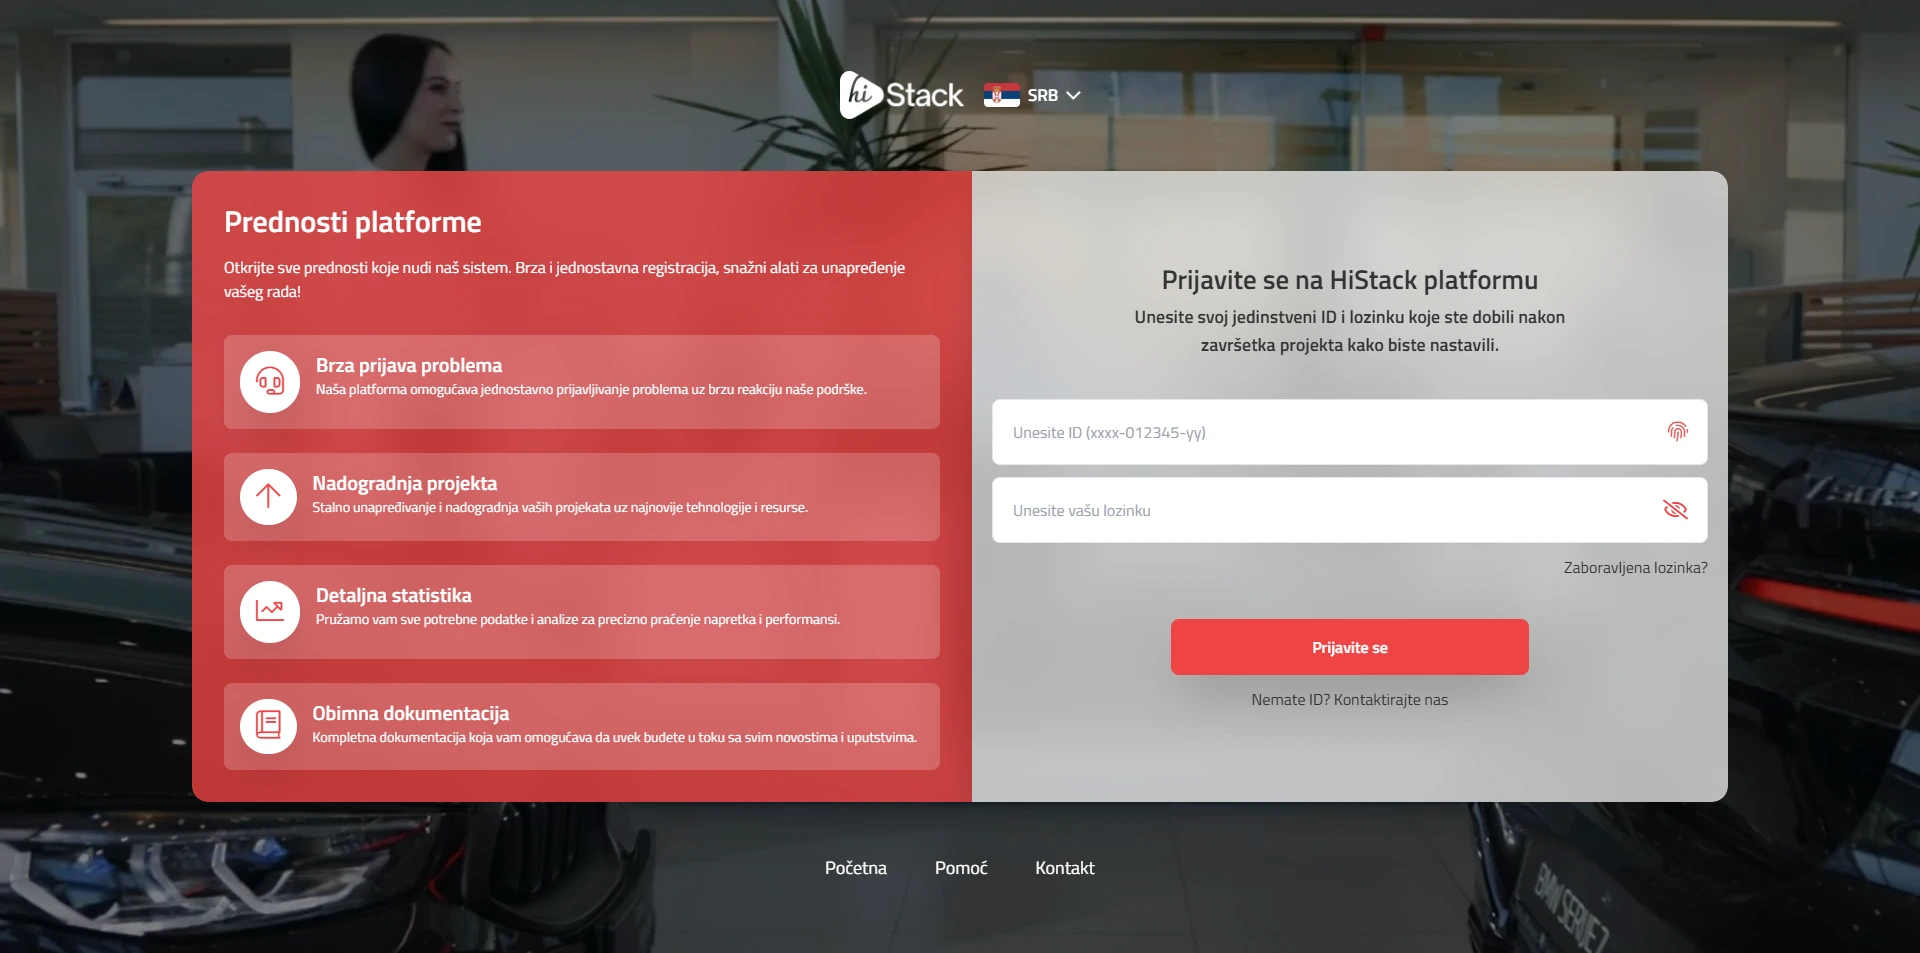
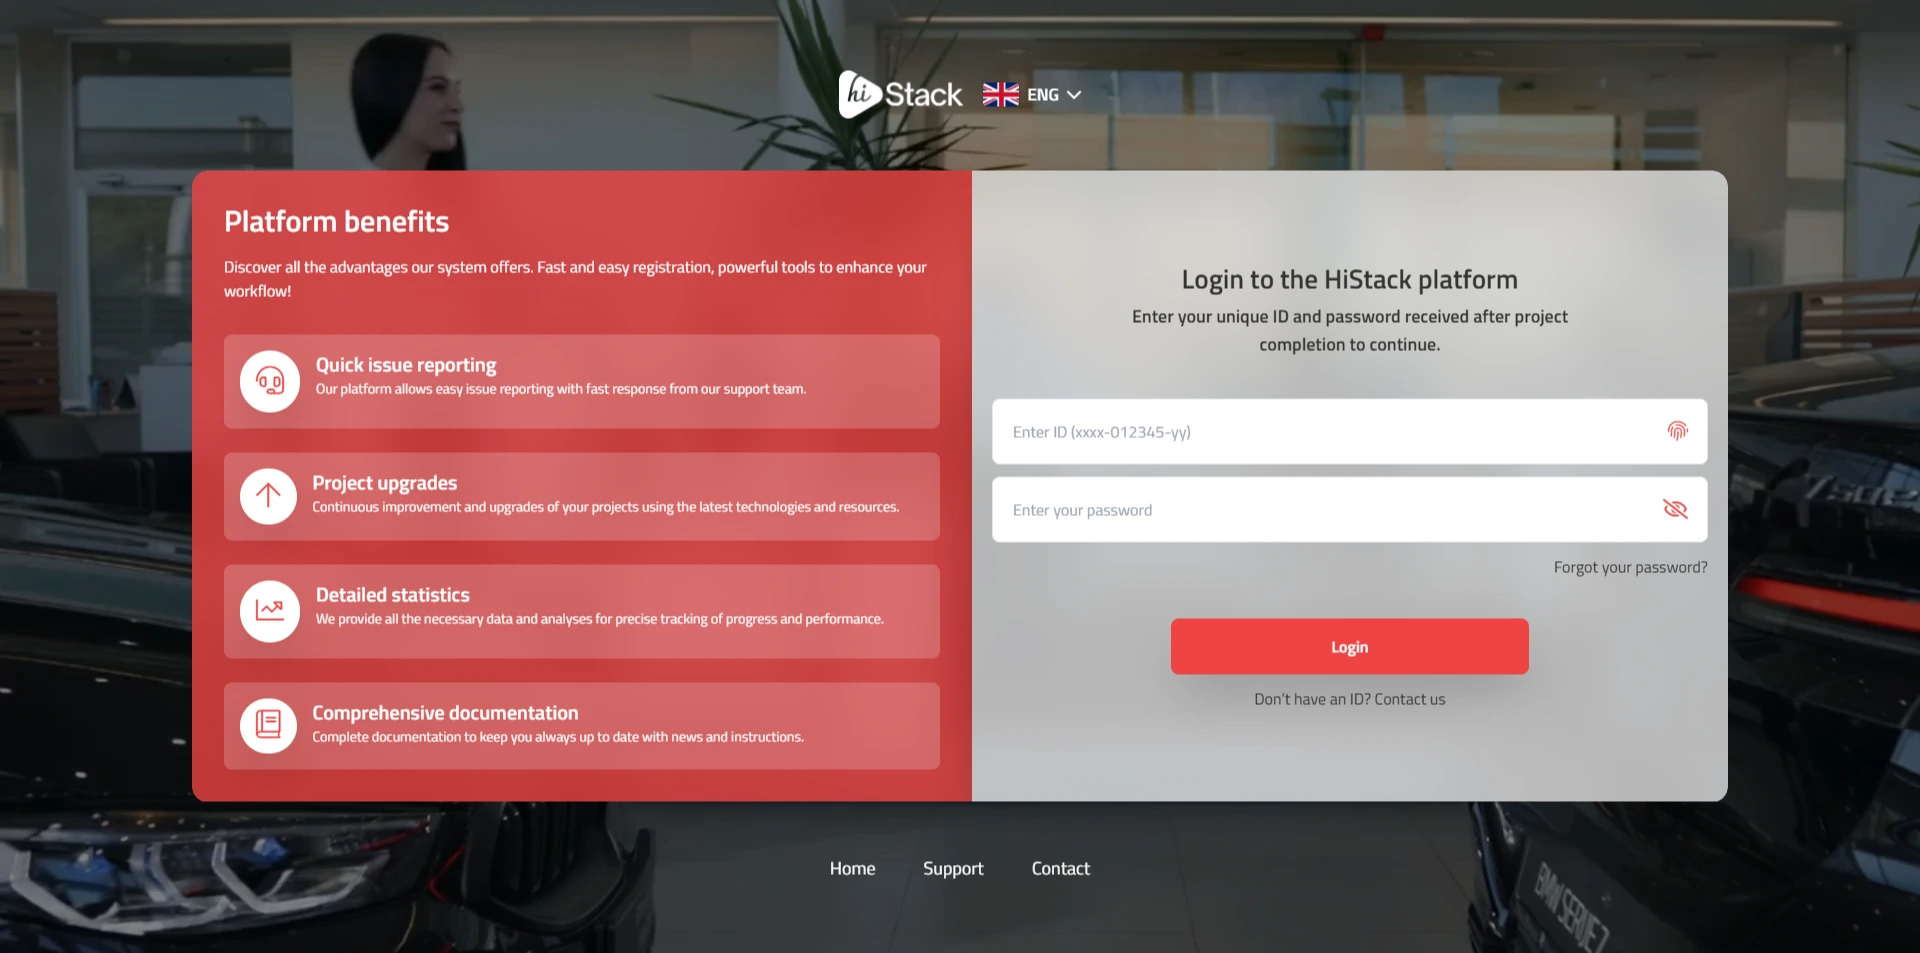
preveden login page, resset pass page i sve slike

diff --git a/en/my-id.html b/en/my-id.html
@@ -132,10 +132,10 @@ PHP modules executed successfully.
     <video 
       id="bg-video"
       class="absolute top-0 left-0 w-full h-full object-cover brightness-50" 
-      autoplay 
+      
       loop 
       muted>
-        <source src="wp-content/uploads/2025/01/HiStack-Corporation-Final-V2-1.mp4" type="video/mp4" />
+        <source src="../wp-content/uploads/2025/01/HiStack-Corporation-Final-V2-1.mp4" type="video/mp4" />
         Your browser does not support the video tag.
     </video>
 
@@ -146,19 +146,19 @@ PHP modules executed successfully.
         <section class="min-h-screen w-full flex flex-col justify-center items-center py-5">
             <!-- Content dynamically loaded by: 'loading-pattern-id_9b3e.php' -->
             <div class="p-5 flex justify-center items-center mb-3 lg:mb-8 z-50 gap-5">
-              <a href="index.html">
-                <img src="wp-content/uploads/2025/01/logo-full-white.png" alt="HiStack Logo" class="h-10 md:h-12 2xl:h-12 w-auto object-contain">
+              <a href="/en/">
+                <img src="../wp-content/uploads/2025/01/logo-full-white.png" alt="HiStack Logo" class="h-10 md:h-12 2xl:h-12 w-auto object-contain">
               </a>
               <div class="hidden xl:block relative group icon-rotate-header-primary">
                   <div class="text-[17px] text-white hover:text-[#ed1a3b] transition duration-100 flex items-center gap-2 cursor-pointer">
-                    <img src="wp-content/uploads/2025/05/RS-Serbia-Flag-icon.png" alt class="h-6 shadow rounded">
-                    <span class="text-base lg:text-[17px] font-semibold"> SRB</span>
+                    <img src="../wp-content/uploads/2025/05/EN-United-Kingdom-Flag-icon.png" alt class="h-6 shadow rounded">
+                    <span class="text-base lg:text-[17px] font-semibold"> ENG</span>
                     <i class="far fa-chevron-down i-rotate-custom"></i>
                   </div>
                   <div class="fixed container t-0 left-1/2 transform -translate-x-1/2 opacity-0 visibility-hidden pointer-events-none group-hover:opacity-100 group-hover:visibility-visible group-hover:pointer-events-auto transition-all duration-300 z-50">
                     <div class="mt-4 bg-gray-50 shadow border border-gray-50 rounded-lg p-5 max-w-[125px] ms-auto me-2 flex justify-center">
                       <a href="/en/" class="text-[17px] hover:text-[#ed1a3b] transition duration-100 flex items-center gap-2">
-                        <img src="wp-content/uploads/2025/05/EN-United-Kingdom-Flag-icon.png" alt class="h-6 shadow rounded">
+                        <img src="wp-content/uploads/2025/05/" alt class="h-6 shadow rounded">
                         <span class="text-base lg:text-[17px] font-semibold"> ENG</span>
                       </a>
                     </div>
@@ -167,8 +167,8 @@ PHP modules executed successfully.
             </div>
             <div class="container rounded-2xl overflow-hidden flex flex-wrap-reverse lg:flex-nowrap">
               <div class="p-6 lg:p-8 text-white bg-red-500 bg-opacity-80 backdrop-blur-xl w-full lg:flex-1">
-                <h2 class="text-2xl lg:text-3xl font-semibold mb-4 text-left">Prednosti platforme</h2>
-                <p class="text-sm lg:text-base mb-8 text-left">Otkrijte sve prednosti koje nudi naš sistem. Brza i jednostavna registracija, snažni alati za unapređenje vašeg rada!</p>
+                <h2 class="text-2xl lg:text-3xl font-semibold mb-4 text-left">Platform benefits</h2>
+                <p class="text-sm lg:text-base mb-8 text-left">Discover all the advantages our system offers. Fast and easy registration, powerful tools to enhance your workflow!</p>
                 <div class="space-y-6">
                   <!-- Prijava problema -->
                   <div class="flex items-start gap-4 p-4 bg-white bg-opacity-20 rounded-lg hover:bg-opacity-40 transition-all ease-in-out duration-300">
@@ -176,8 +176,8 @@ PHP modules executed successfully.
                       <i class="fal fa-headset text-[28px] text-red-500"></i> <!-- Novi icon -->
                     </span>
                     <div>
-                      <h3 class="text-xl font-semibold">Brza prijava problema</h3>
-                      <p class="text-sm">Naša platforma omogućava jednostavno prijavljivanje problema uz brzu reakciju naše podrške.</p>
+                      <h3 class="text-xl font-semibold">Quick issue reporting</h3>
+                      <p class="text-sm">Our platform allows easy issue reporting with fast response from our support team.</p>
                     </div>
                   </div>
 
@@ -187,8 +187,8 @@ PHP modules executed successfully.
                       <i class="fal fa-arrow-up text-[28px] text-red-500"></i> <!-- Novi icon -->
                     </span>
                     <div>
-                      <h3 class="text-xl font-semibold">Nadogradnja projekta</h3>
-                      <p class="text-sm">Stalno unapređivanje i nadogradnja vaših projekata uz najnovije tehnologije i resurse.</p>
+                      <h3 class="text-xl font-semibold">Project upgrades</h3>
+                      <p class="text-sm">Continuous improvement and upgrades of your projects using the latest technologies and resources.</p>
                     </div>
                   </div>
 
@@ -198,8 +198,8 @@ PHP modules executed successfully.
                       <i class="fal fa-chart-line text-[28px] text-red-500"></i> <!-- Novi icon -->
                     </span>
                     <div>
-                      <h3 class="text-xl font-semibold">Detaljna statistika</h3>
-                      <p class="text-sm">Pružamo vam sve potrebne podatke i analize za precizno praćenje napretka i performansi.</p>
+                      <h3 class="text-xl font-semibold">Detailed statistics</h3>
+                      <p class="text-sm">We provide all the necessary data and analyses for precise tracking of progress and performance.</p>
                     </div>
                   </div>
 
@@ -209,22 +209,22 @@ PHP modules executed successfully.
                       <i class="fal fa-book text-[28px] text-red-500"></i> <!-- Novi icon -->
                     </span>
                     <div>
-                      <h3 class="text-xl font-semibold">Obimna dokumentacija</h3>
-                      <p class="text-sm">Kompletna dokumentacija koja vam omogućava da uvek budete u toku sa svim novostima i uputstvima.</p>
+                      <h3 class="text-xl font-semibold">Comprehensive documentation</h3>
+                      <p class="text-sm">Complete documentation to keep you always up to date with news and instructions.</p>
                     </div>
                   </div>
                 </div>
               </div>
               <div class="px-5 py-12 bg-white bg-opacity-70 backdrop-blur-xl text-[#333333] shadow-2xl text-center flex justify-center items-center  w-full lg:flex-1 flex-col">
-                <h1 class="text-2xl lg:text-[27px] font-semibold mb-2">Prijavite se na HiStack platformu</h1>
-                <p class="text-base lg:text-lg font-semibold mb-10 w-full xl:w-2/3">Unesite svoj jedinstveni ID i lozinku koje ste dobili nakon završetka projekta kako biste nastavili.</p>
+                <h1 class="text-2xl lg:text-[27px] font-semibold mb-2">Login to the HiStack platform</h1>
+                <p class="text-base lg:text-lg font-semibold mb-10 w-full xl:w-2/3">Enter your unique ID and password received after project completion to continue.</p>
                 <div class="flex flex-col w-full">
                   <form id="loginForm" onsubmit="handleLogin(event)">
                     <div class="relative mb-3">
                       <input 
                         id="histack-id" 
                         type="text" 
-                        placeholder="Unesite ID (xxxx-012345-yy)" 
+                        placeholder="Enter ID (xxxx-012345-yy)" 
                         class="w-full border rounded-lg text-sm lg:text-base p-5 outline-none focus:border-red-500 transition-border duration-300 ease-in-out" 
                         required>
                       <span class="absolute right-5 top-1/2 transform -translate-y-1/2 text-gray-500">
@@ -235,7 +235,7 @@ PHP modules executed successfully.
                       <input 
                         id="password" 
                         type="password" 
-                        placeholder="Unesite vašu lozinku" 
+                        placeholder="Enter your password" 
                         class="w-full border rounded-lg text-sm lg:text-base p-5 outline-none focus:border-red-500 transition-border duration-300 ease-in-out"
                         required>
                       <span 
@@ -245,26 +245,26 @@ PHP modules executed successfully.
                       </span>
                     </div>
                     <div class="flex justify-end">
-                      <a href="reset-password.html" class="inline-block text-base ms-auto mb-7 hover:underline">Zaboravljena lozinka?</a>
+                      <a href="/en/reset-password.html" class="inline-block text-base ms-auto mb-7 hover:underline">Forgot your password?</a>
                     </div>
                     <div id="loading" class="mt-3 text-center hidden">
-                      <i class="far fa-spinner text-red-500 text-xl animate-spin"></i> <!-- Rotirajuća ikonica -->
+                      <i class="far fa-spinner text-red-500 text-xl animate-spin"></i>
                     </div>
                     <div id="messageContainer" class="mb-3 text-red-500 text-base lg:text-lg font-semibold"></div>
                     <button 
                       type="submit"
                       class="inline-flex w-2/3 sm:w-1/2 mx-auto gap-2 mb-3 justify-center items-center bg-red-500 text-white text-base py-4 px-8 rounded-lg font-semibold hover:bg-red-400 transition duration-300 shadow-2xl">
-                      Prijavite se
+                      Login
                     </button>
                   </form>
-                  <a href="kontakt.html" class="inline-block text-base mx-auto hover:underline">Nemate ID? Kontaktirajte nas</a>
+                  <a href="/en/contact.html" class="inline-block text-base mx-auto hover:underline">Don’t have an ID? Contact us</a>
                 </div>
               </div>
             </div>
             <div class="p-5 flex gap-8 lg:gap-12 justify-center text-white z-50 mt-3 lg:mt-8">
-              <a href="index.html" class="text-base lg:text-lg hover:text-red-500 transition-all duration-300">Početna</a>
-              <a href="pomoc.html" class="text-base lg:text-lg hover:text-red-500 transition-all duration-300">Pomoć</a>
-              <a href="kontakt.html" class="text-base lg:text-lg hover:text-red-500 transition-all duration-300">Kontakt</a>
+              <a href="/en/index.html" class="text-base lg:text-lg hover:text-red-500 transition-all duration-300">Home</a>
+              <a href="/en/support.html" class="text-base lg:text-lg hover:text-red-500 transition-all duration-300">Support</a>
+              <a href="/en/contact.html" class="text-base lg:text-lg hover:text-red-500 transition-all duration-300">Contact</a>
             </div>
         </section>
         <!-- Login form 'id_log-in' section end -->

diff --git a/en/reset-password.html b/en/reset-password.html
@@ -135,7 +135,7 @@ PHP modules executed successfully.
       autoplay 
       loop 
       muted>
-        <source src="wp-content/uploads/2025/01/HiStack-Corporation-Final-V2-1.mp4" type="video/mp4" />
+        <source src="../wp-content/uploads/2025/01/HiStack-Corporation-Final-V2-1.mp4" type="video/mp4" />
         Your browser does not support the video tag.
     </video>
 
@@ -146,22 +146,22 @@ PHP modules executed successfully.
         <section class="min-h-screen w-full flex flex-col justify-center items-center py-5">
             <!-- Content dynamically loaded by: 'loading-pattern-id_9b3e.php' -->
             <div class="p-5 flex justify-center items-center mb-3 lg:mb-8 z-50">
-              <a href="index.html">
-                <img src="wp-content/uploads/2025/01/logo-full-white.png" alt="HiStack Logo" class="h-10 md:h-12 2xl:h-14 w-auto object-contain">
+              <a href="/en/">
+                <img src="../wp-content/uploads/2025/01/logo-full-white.png" alt="HiStack Logo" class="h-10 md:h-12 2xl:h-14 w-auto object-contain">
               </a>
-              <img src="wp-content/uploads/2025/01/srb-icon.png" alt class="h-8 lg:h-10 ml-2">
+              <img src="../wp-content/uploads/2025/01/srb-icon.png" alt class="h-8 lg:h-10 ml-2">
             </div>
             <div class="container rounded-2xl overflow-hidden flex flex-wrap-reverse lg:flex-nowrap w-full lg:w-1/2">
               <div class="px-5 xl:px-12 py-12 bg-white bg-opacity-70 backdrop-blur-xl text-[#333333] shadow-2xl text-center flex justify-center items-center  w-full lg:flex-1 flex-col">
-                <h1 class="text-2xl lg:text-[27px] font-semibold mb-2">Zaboravljena lozinka?</h1>
-                <p class="text-base lg:text-lg font-semibold mb-10 w-full xl:w-2/3">Unesite svoju mejl adresu ili jedinstveni ID koji ste dobili pri završetku projekta i mi ćemo Vam poslati instrukcije kako resetovati lozinku.</p>
+                <h1 class="text-2xl lg:text-[27px] font-semibold mb-2">Forgot your password?</h1>
+                <p class="text-base lg:text-lg font-semibold mb-10 w-full xl:w-2/3">Enter your email address or unique ID you received after project completion, and we will send you instructions to reset your password.</p>
                 <div class="flex flex-col w-full">
                     <form id="resetPasswordForm" onsubmit="handleResetPassword(event)">
                         <div class="relative mb-3">
                           <input 
                             id="reset-password" 
                             type="text" 
-                            placeholder="Email ili ID (xxxx-012345-yy)" 
+                            placeholder="Email or ID (xxxx-012345-yy)" 
                             class="w-full border rounded-lg text-sm lg:text-base p-5 outline-none focus:border-red-500 transition-border duration-300 ease-in-out"
                             required>
                           <span 
@@ -171,25 +171,25 @@ PHP modules executed successfully.
                           </span>
                         </div>
                         <div class="flex justify-end">
-                            <a href="kontakt.html" class="inline-block text-base ms-auto mb-7 hover:underline">Nemate ID? Kontaktirajte nas</a>
+                            <a href="/en/contact.html" class="inline-block text-base ms-auto mb-7 hover:underline">Don’t have an ID? Contact us</a>
                         </div>
                         <div id="loadingReset" class="mt-3 text-center hidden">
-                          <i class="far fa-spinner text-red-500 text-xl animate-spin"></i> <!-- Rotirajuća ikonica -->
+                          <i class="far fa-spinner text-red-500 text-xl animate-spin"></i>
                         </div>
                         <div id="messageContainerReset" class="mb-3 text-red-500 text-base lg:text-lg font-semibold"></div>
                         <button type="submit" class="inline-flex w-2/3 sm:w-1/2 mx-auto gap-2 mb-3 justify-center items-center bg-red-500 text-white text-base py-4 px-8 rounded-lg font-semibold hover:bg-red-400 transition duration-300 shadow-2xl">
-                            Resetuj lozinku
+                            Reset password
                         </button>
                     </form>
                       
-                  <a href="moj-id.html" class="inline-block text-base mx-auto hover:underline">Prijavite se</a>
+                  <a href="/en/" class="inline-block text-base mx-auto hover:underline">Login</a>
                 </div>
               </div>
             </div>
             <div class="p-5 flex gap-8 lg:gap-12 justify-center text-white z-50 mt-3 lg:mt-8">
-              <a href="index.html" class="text-base lg:text-lg hover:text-red-500 transition-all duration-300">Početna</a>
-              <a href="pomoc.html" class="text-base lg:text-lg hover:text-red-500 transition-all duration-300">Pomoć</a>
-              <a href="kontakt.html" class="text-base lg:text-lg hover:text-red-500 transition-all duration-300">Kontakt</a>
+              <a href="/en/index.html" class="text-base lg:text-lg hover:text-red-500 transition-all duration-300">Home</a>
+              <a href="/en/support.html" class="text-base lg:text-lg hover:text-red-500 transition-all duration-300">Support</a>
+              <a href="/en/contact.html" class="text-base lg:text-lg hover:text-red-500 transition-all duration-300">Contact</a>
             </div>
         </section>
         <!-- Reset password form 'id_log-in' section end -->
@@ -199,9 +199,6 @@ PHP modules executed successfully.
     <!-- Custom JS -->
     <script src="../wp-content/themes/HiStack/main.js"></script>
     <script src="https://cdn.jsdelivr.net/npm/aos@2.3.4/dist/aos.js"></script>
-    <script>
-      AOS.init();
-    </script>
 
 </body>
 </html>

diff --git a/en/index.html b/en/index.html
@@ -1230,7 +1230,7 @@ PHP modules executed successfully.
                     <p class="text-sm xl:text-base">Tu smo za vas i nakon završetka projekta, jer vaš uspeh je i naš uspeh.</p>
                   </div>
                 </div>
-                <img data-aos="fade-in" data-aos-delay="100" src="wp-content/uploads/2025/01/podrska-highlight.png" loading="lazy" alt="HiStack Platforma" class="mb-4 rounded-lg shadow-[0px_5px_20px_rgba(0,0,0,0.5)] sm:w-2/3 lg:w-full mx-auto">
+                <img data-aos="fade-in" data-aos-delay="100" src="../wp-content/uploads/2025/05/support-highlight.webp" loading="lazy" alt="HiStack Platforma" class="mb-4 rounded-lg shadow-[0px_5px_20px_rgba(0,0,0,0.5)] sm:w-2/3 lg:w-full mx-auto">
               </div>
             </div>
         </section>
@@ -1318,7 +1318,7 @@ PHP modules executed successfully.
           <!-- Content dynamically loaded by: 'loading-pattern-id_9b3e.php' -->
           <div class="flex flex-wrap lg:flex-nowrap mx-auto gap-7 lg:gap-12 justify-center items-center">
               <div class="basis-full lg:basis-1/2">
-                  <img src="wp-content/uploads/2025/01/digitalna-resenja-za-preduzeca.png" loading="lazy" alt="Promo usluge brzo i kvalitetno po meri" class="rounded-xl lg:rounded-3xl shadow-lg">
+                  <img src="../wp-content/uploads/2025/05/digital-solutions-for-businesses.png" loading="lazy" alt="Promo usluge brzo i kvalitetno po meri" class="rounded-xl lg:rounded-3xl shadow-lg">
               </div>
               <div class="basis-full lg:basis-1/2 text-[#333333]">
                   <div class="2xl:w-[80%]">
@@ -1439,7 +1439,7 @@ PHP modules executed successfully.
                     </div>
                 </div>
                 <div class="basis-full lg:basis-1/2 items-center justify-center">
-                    <img src="wp-content/uploads/2025/01/ekskluzivne-ponude-za-mala-i-srednja-preduzeca.png" loading="lazy" alt="Promo usluge brzo i kvalitetno po meri" class="rounded-xl lg:rounded-3xl shadow-lg">
+                    <img src="../wp-content/uploads/2025/05/exclusive-offers-for-smes.png" loading="lazy" alt="Promo usluge brzo i kvalitetno po meri" class="rounded-xl lg:rounded-3xl shadow-lg">
                 </div>
             </div>
         </section>
@@ -1594,7 +1594,7 @@ PHP modules executed successfully.
             <div class="p-2 flex-1 rounded-2xl bg-white border-2 border-red-100 container mx-auto flex flex-col md:flex-row gap-5 overflow-hidden hover:shadow-2xl transition-shadow duration-300">
               <div class="w-full md:w-1/2 xl:w-[55%]">
                   <a href="histack-fondacija.html">
-                      <img src="wp-content/uploads/2025/02/histack-fondacija.webp" alt="HiStack fondacija - Besplatni sajtovi za humanitarne svrhe" class="w-full h-auto object-cover md:aspect-[4/3] xl:aspect-auto rounded-lg shadow">
+                      <img src="../wp-content/uploads/2025/05/histack-foundation.webp" alt="HiStack fondacija - Besplatni sajtovi za humanitarne svrhe" class="w-full h-auto object-cover md:aspect-[4/3] xl:aspect-auto rounded-lg shadow">
                   </a>
               </div>
               <div class="flex-1 flex flex-col justify-center lg:p-3 xl:p-12 px-3 pb-3 md:pl-0 md:py-0">

diff --git a/index.html b/index.html
@@ -1230,7 +1230,7 @@ PHP modules executed successfully.
                     <p class="text-sm xl:text-base">Tu smo za vas i nakon završetka projekta, jer vaš uspeh je i naš uspeh.</p>
                   </div>
                 </div>
-                <img data-aos="fade-in" data-aos-delay="100" src="wp-content/uploads/2025/01/podrska-highlight.png" loading="lazy" alt="HiStack Platforma" class="mb-4 rounded-lg shadow-[0px_5px_20px_rgba(0,0,0,0.5)] sm:w-2/3 lg:w-full mx-auto">
+                <img data-aos="fade-in" data-aos-delay="100" src="wp-content/uploads/2025/01/podrska-highlight.webp" loading="lazy" alt="HiStack Platforma" class="mb-4 rounded-lg shadow-[0px_5px_20px_rgba(0,0,0,0.5)] sm:w-2/3 lg:w-full mx-auto">
               </div>
             </div>
         </section>
